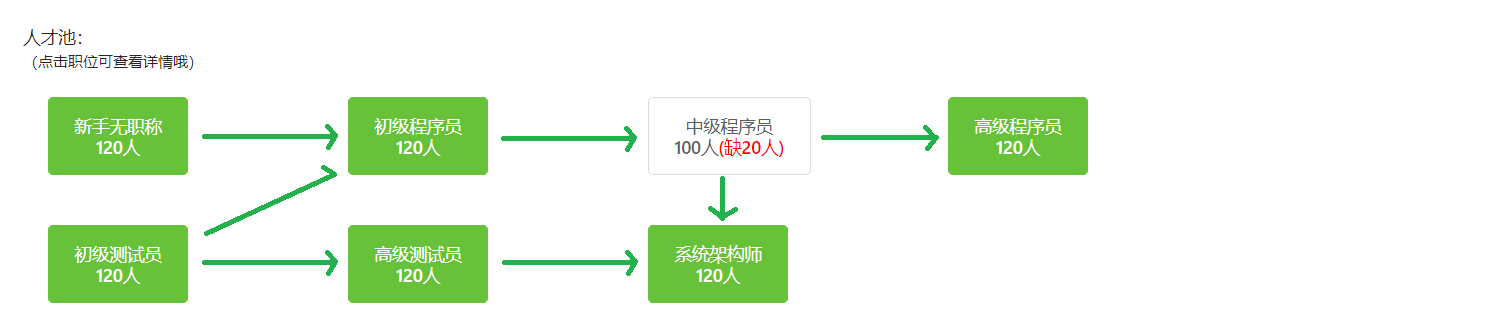
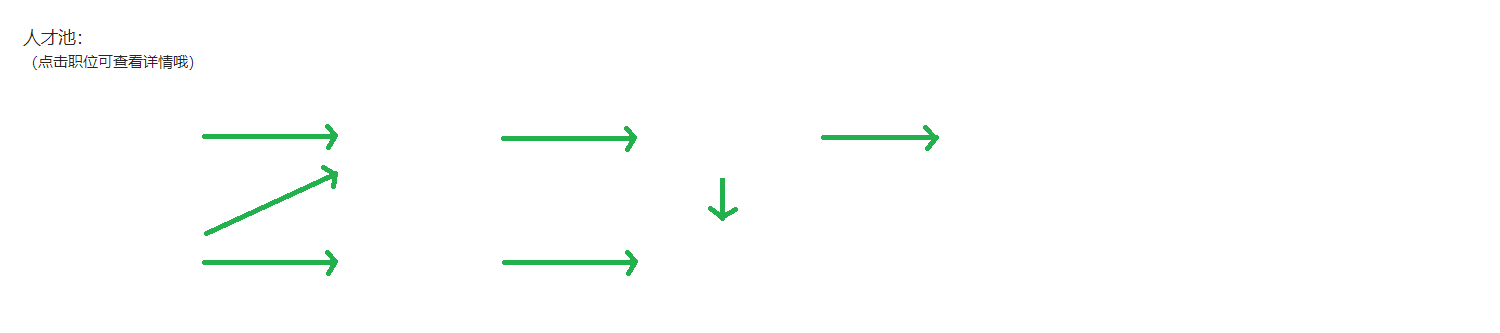
add_pic

diff --git a/src/app/hr/hr.component.html b/src/app/hr/hr.component.html
@@ -1,7 +1,7 @@
 <div el-container direction="vertical" class="demo-box mid-outlet">
   <div el-headern class="first-title">
     <h1>部门管理</h1></div>
-  <div el-main>
+  <div el-main style="background-image: url(https://raw.githubusercontent.com/YangYongJianDTY/ng-base/master/src/app/user-info/b4.png); background-size: 1200px">
     <div el-row>
       <h3>人才池：</h3>
       <h4>（点击职位可查看详情哦）</h4>
